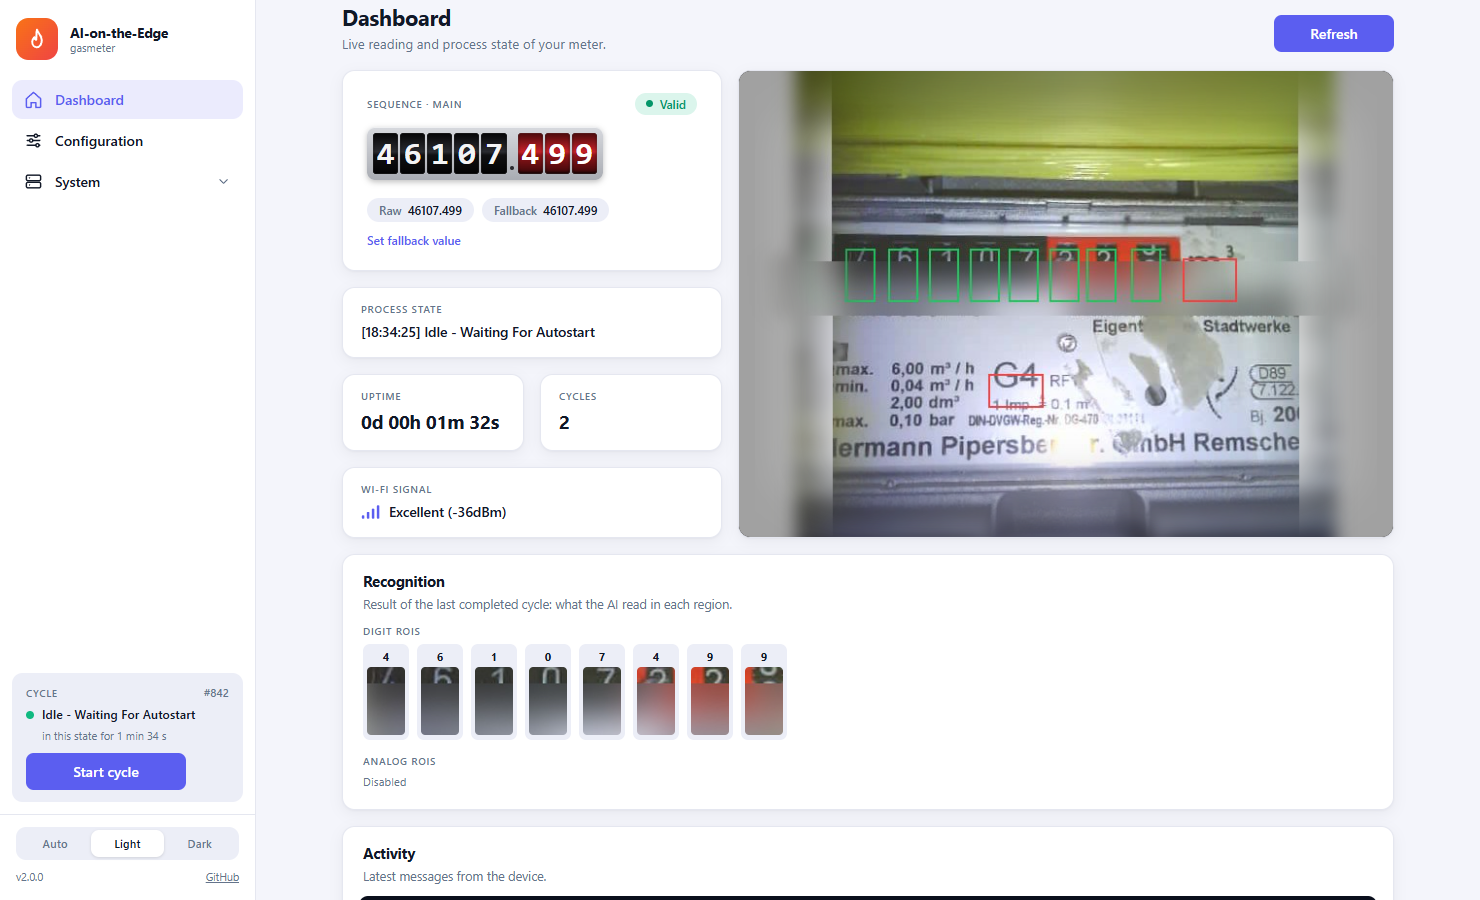
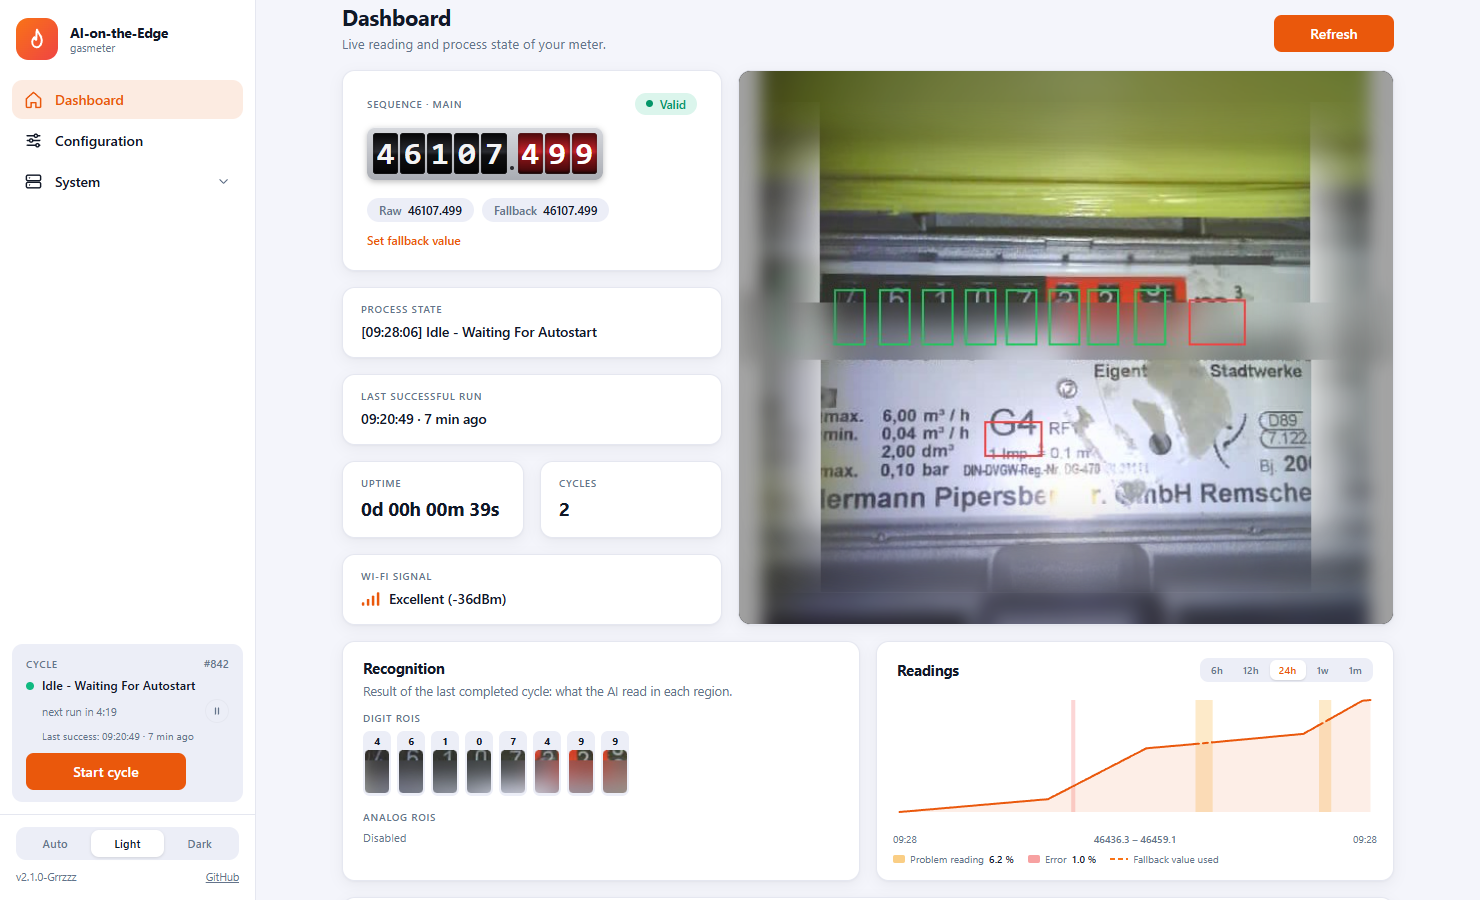
docs: README and screenshots for 2.1

diff --git a/README.md b/README.md
@@ -15,6 +15,20 @@ backend and a one-click update from GitHub, and trims the firmware to the `esp32
   <img src="docs/images/ui-dashboard.png" width="800" alt="Dashboard">
 </p>
 
+## What is new in 2.1
+
+- **Countdown and pause** - in automatic mode the sidebar shows the countdown to the next run instead of the idle time. A mini pause
+  button stops the countdown while you configure the device (config mode), a manual start still works
+- **Last successful run** - shown in the sidebar and on the dashboard
+- **Readings plot** - minimal chart of the data log on the dashboard (6 h, 12 h, 24 h, 1 week, 1 month). Problem periods are shaded
+  yellow (invalid data, rate problems) or red (errors), fallback values are drawn dashed, the legend shows the share of each
+- **Color themes** - the main color of the interface follows the meter type (blue for generic). `System > Setup > General` has a
+  "Meter Type & Theme" card with custom selection boxes: the meter type shows its icon, the theme (Blue, Orange, Amber, Pink,
+  Slate) can be overridden. The icons always follow the meter type
+- **Status favicon and tab title** - the favicon shows the meter icon with a status dot, the tab title gets a prefix on errors or pause
+- **MQTT badge** on the dashboard, a 60 second total countdown in the update screen, smaller digit tiles in the recognition card
+- Development builds can always be updated to the official release from `System > Update`
+
 ## What is new in 2.0
 
 - **New web interface** - a single page app (`index.html`, `app.js`, `style.css`) with light and dark theme, a responsive layout for
